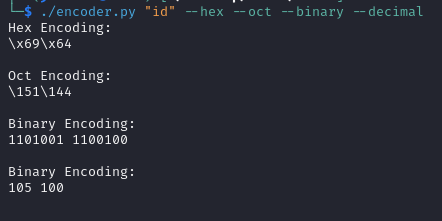
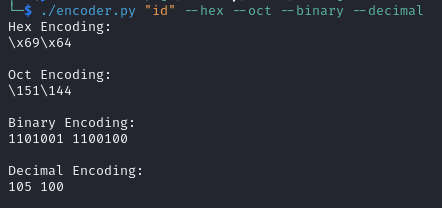
Fix Typo

diff --git a/encoder.py b/encoder.py
@@ -30,12 +30,12 @@ encoded_command = ''
 if (args.binary):
     for c in command:
         encoded_command += f'{bin(ord(c))[2:]} '
-    print("Decimal Encoding: ")    
+    print("Binary Encoding: ")    
     print(encoded_command, "\n")
 
 encoded_command = ''
 if (args.decimal):
     for c in command:
         encoded_command += f'{ord(c)} '
-    print("Binary Encoding: ")    
+    print("Decimal Encoding: ")    
     print(encoded_command, "\n")

diff --git a/README.md b/README.md
@@ -5,4 +5,5 @@ The command can be used to encode payloads to bypass filters in certain scenario
 
 ![](./example1.png)
 
+Hex encoding of `echo "Hello World!"` piped to `sh`. 
 ![](./example2.png)
